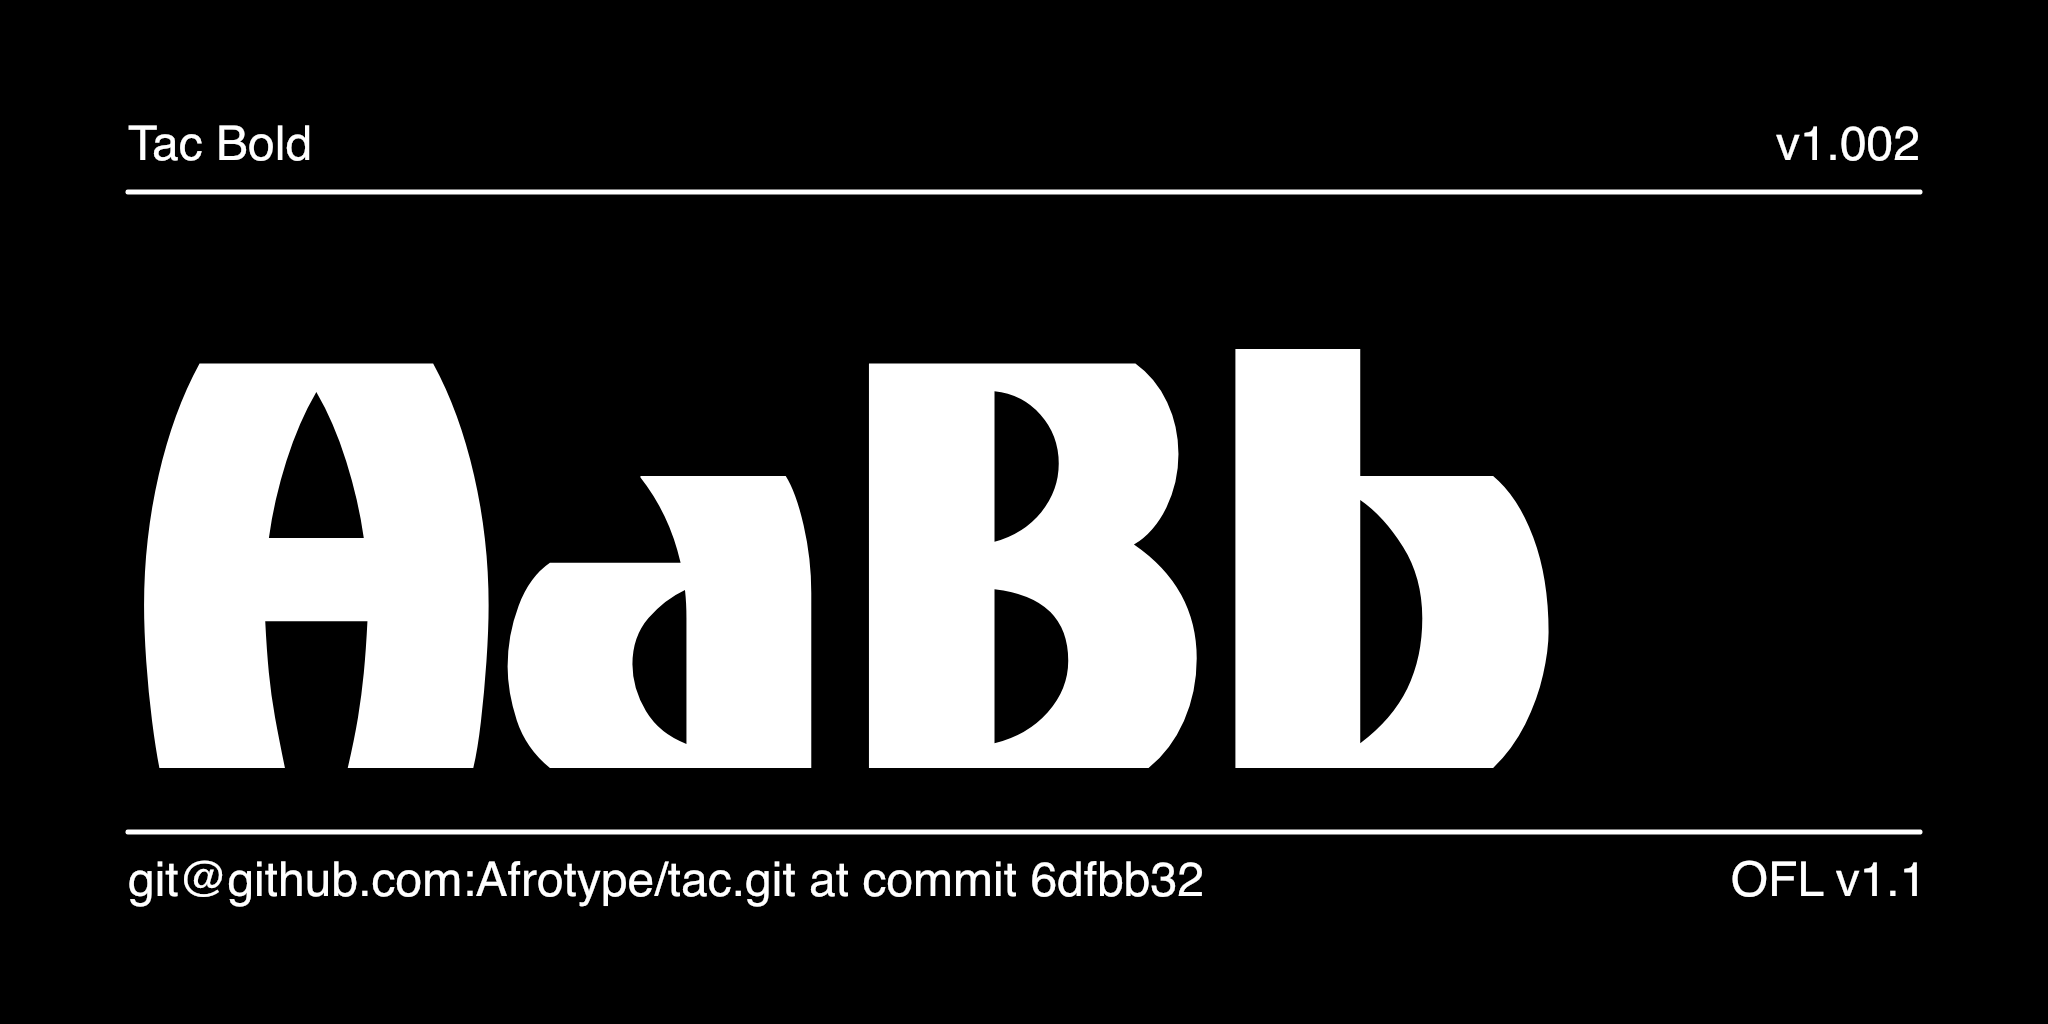
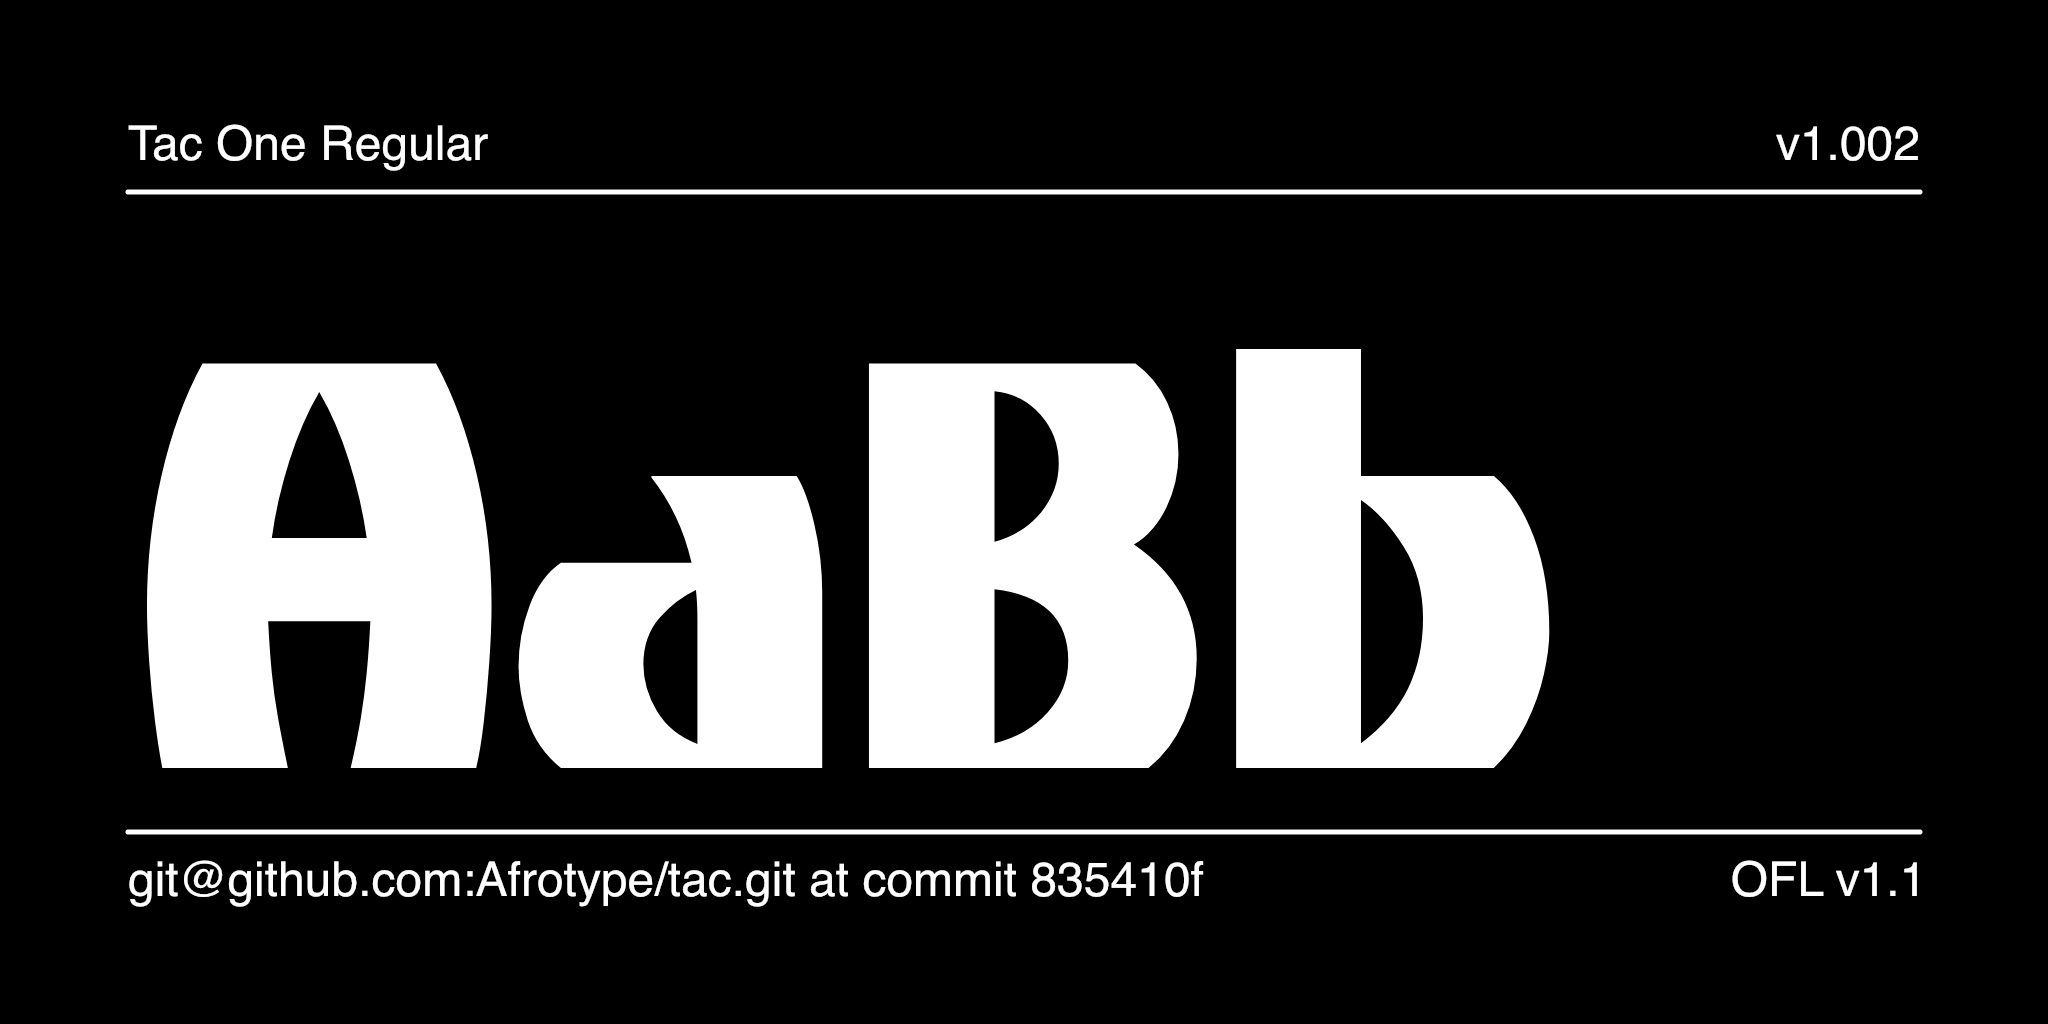
updated documentation images

diff --git a/documentation/image1.py b/documentation/image1.py
@@ -16,7 +16,7 @@ import argparse
 
 # Constants, these are the main "settings" for the image
 WIDTH, HEIGHT, MARGIN, FRAMES = 2048, 1024, 128, 1
-FONT_PATH = "fonts/ttf/Tac-Bold.ttf"
+FONT_PATH = "fonts/ttf/TacOne-Regular.ttf"
 FONT_LICENSE = "OFL v1.1"
 AUXILIARY_FONT = "Helvetica"
 AUXILIARY_FONT_SIZE = 48

diff --git a/documentation/image2.py b/documentation/image2.py
@@ -16,7 +16,7 @@ import argparse
 
 # Constants, these are the main "settings" for the image
 WIDTH, HEIGHT, MARGIN, FRAMES = 2048, 1024, 128, 1
-FONT_PATH = "fonts/ttf/Tac-Bold.ttf"
+FONT_PATH = "fonts/ttf/TacOne-Regular.ttf"
 FONT_LICENSE = "OFL v1.1"
 AUXILIARY_FONT = "Helvetica"
 AUXILIARY_FONT_SIZE = 48
